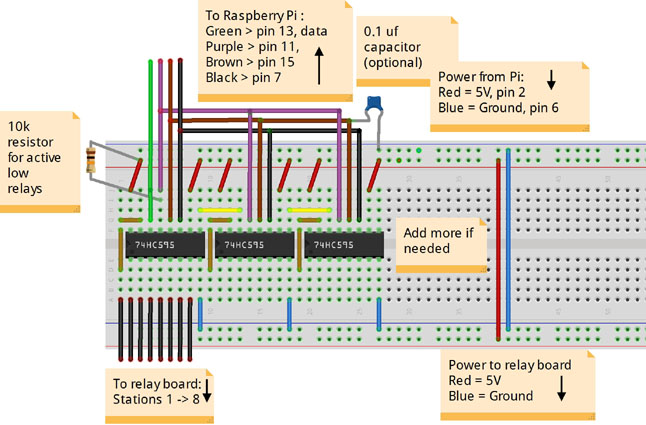
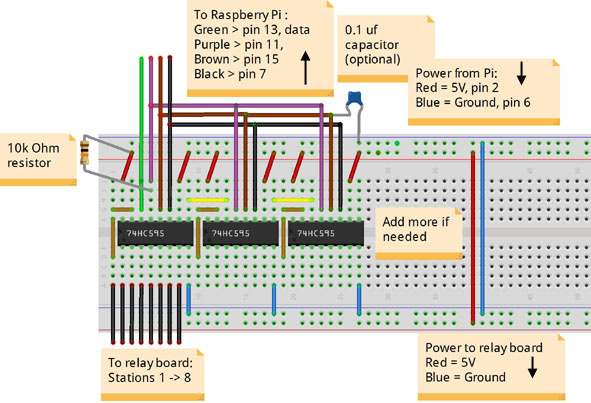
Clean up info about active low relay boards.

diff --git a/Relay-interface.md b/Relay-interface.md
@@ -19,13 +19,11 @@ The diagram below shows a breadboard layout that supports up to 24 stations.
 
 Each 74HC595 shift register allows you to connect 8 relays. You can chain as many shift registers together as needed.
 
-**Note:** This shift register interface can work with either active high (high level trigger) or active low (low level trigger) relay boards. SIP's native mode was designed for active high output. If you will be using **active low** relay boards such as those from SainSmart you will need to include the 10k Ohm pull up resistor between the output enable pin (Pin 11) and 5V as sown in the diagram above. This prevents the relays from being all switched on during power up.
+**Note:** This shift register interface can work with either active high (high level trigger) or active low (low level trigger) relay boards. If you are using an **active-low** relay board such as those from SainSmart you will need to check the **Active_Low Relay** box under **Station Handling** on SIP's **Options** page. This enables the proper output mode for active low boards.
 
-If you will be using **active high** relay boards **do not** include the resistor.
+If you need to increase the number of stations that SIP displays you can do so by increasing the number of **Extension boards** also under **Station Handling**. 0 for 8 stations (the default), 1 for 16 station 2 for 24 stations etc.
 
 Be sure that all relay boards attached to this interface are of the same trigger type.
-
-If you are using an **active-low** relay board you will also need to check the **Active_Low Relay** box under **Station Handling** on SIP's **Options** page. This enables the proper output mode for active low boards.
 
 If you will be using a large number of stations, especially if more that a couple of relays will be on at the same time, you should consider adding a separate power supply to run the relays.
 
